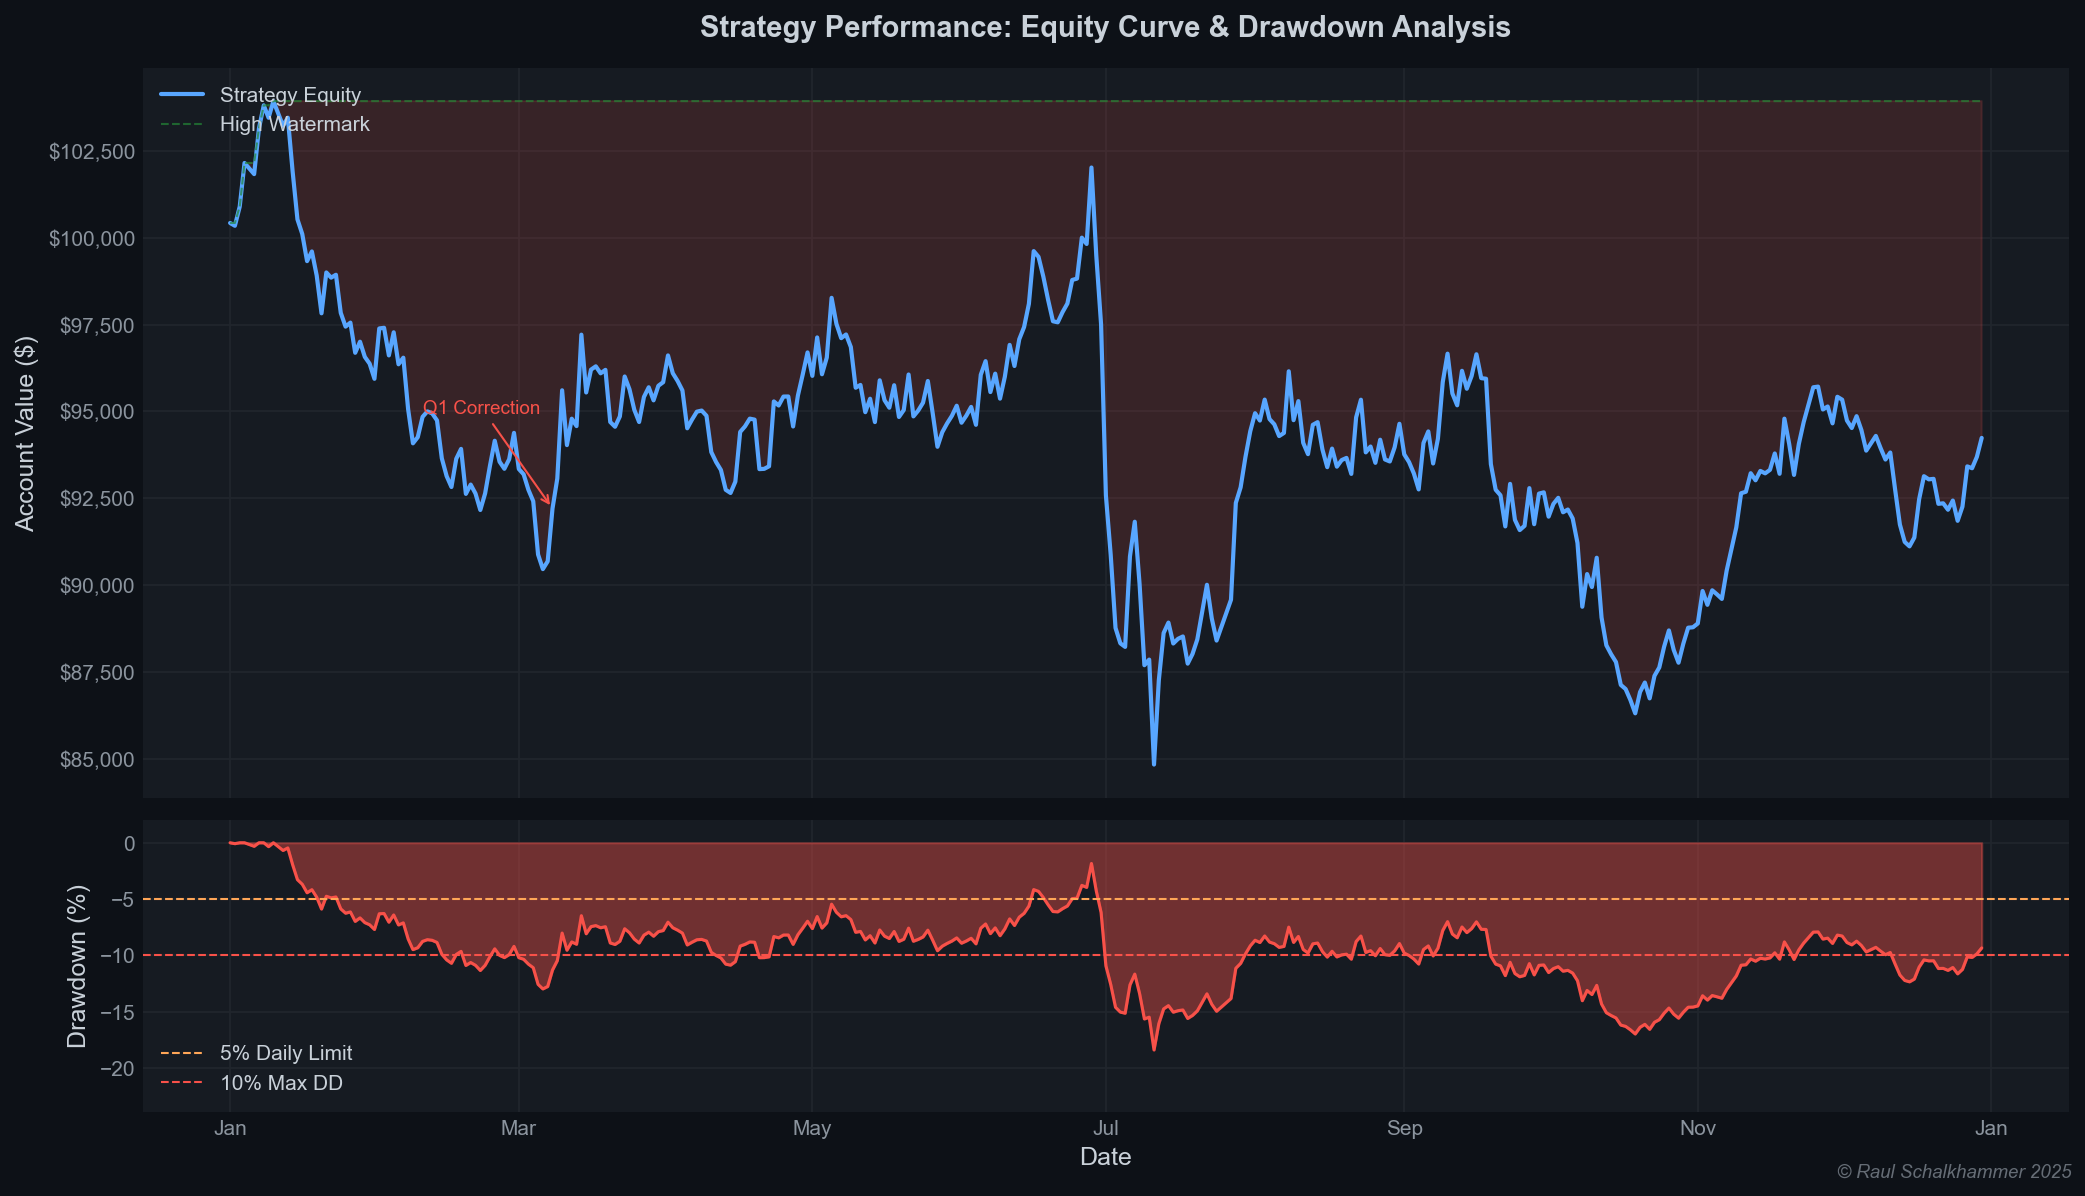
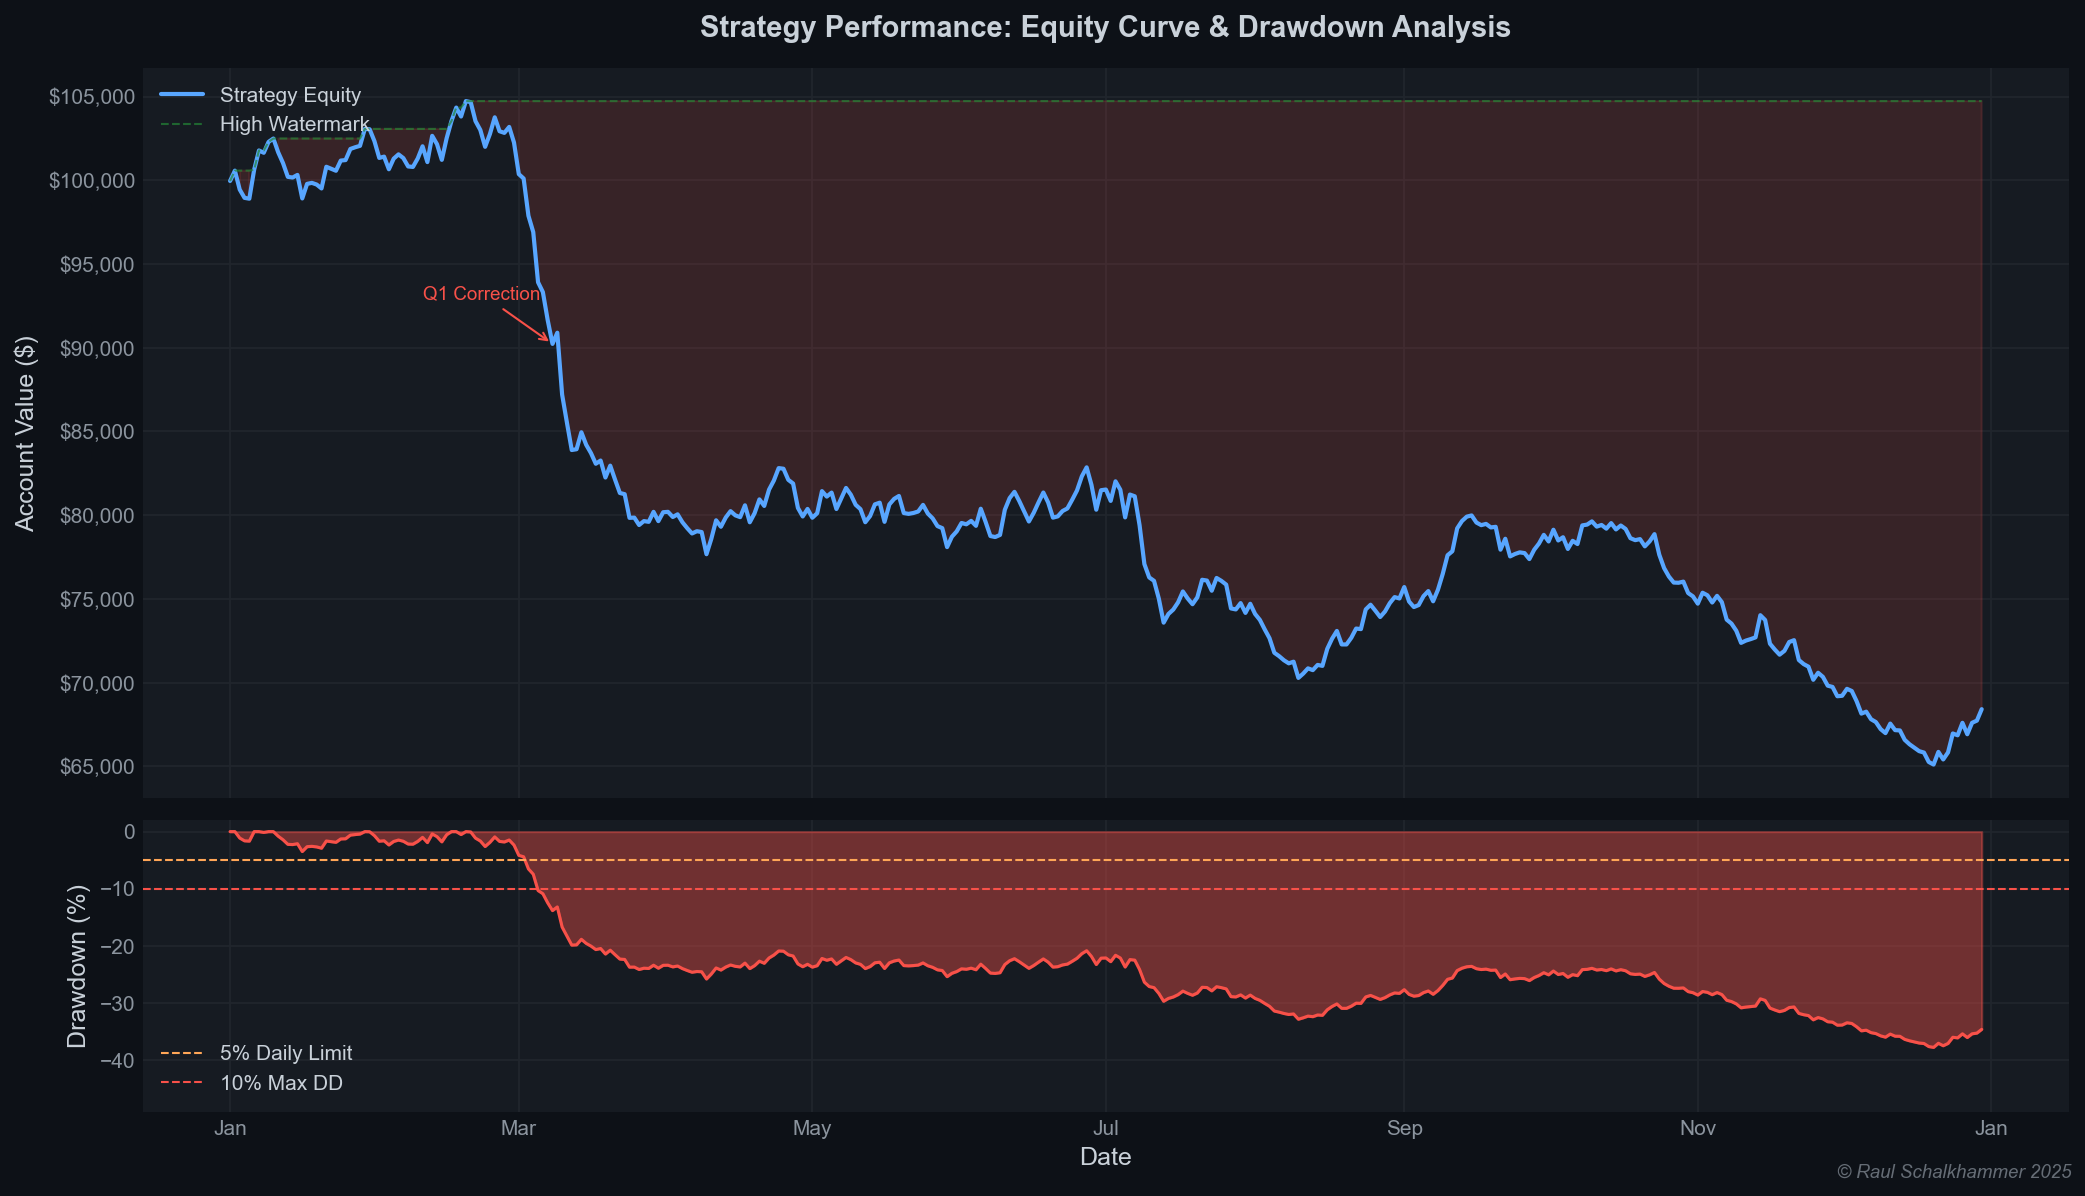
Docs: Regenerated Equity Curve visualization with new seed

diff --git a/generate_readme_plots.py b/generate_readme_plots.py
@@ -41,7 +41,7 @@ def add_watermark(fig):
 # 1. EQUITY CURVE WITH DRAWDOWN
 # =============================================================================
 def plot_equity_drawdown():
-    np.random.seed(42)
+    np.random.seed(2025) # Fresh seed for Audit Version
     
     # Generate realistic equity curve
     days = 365
